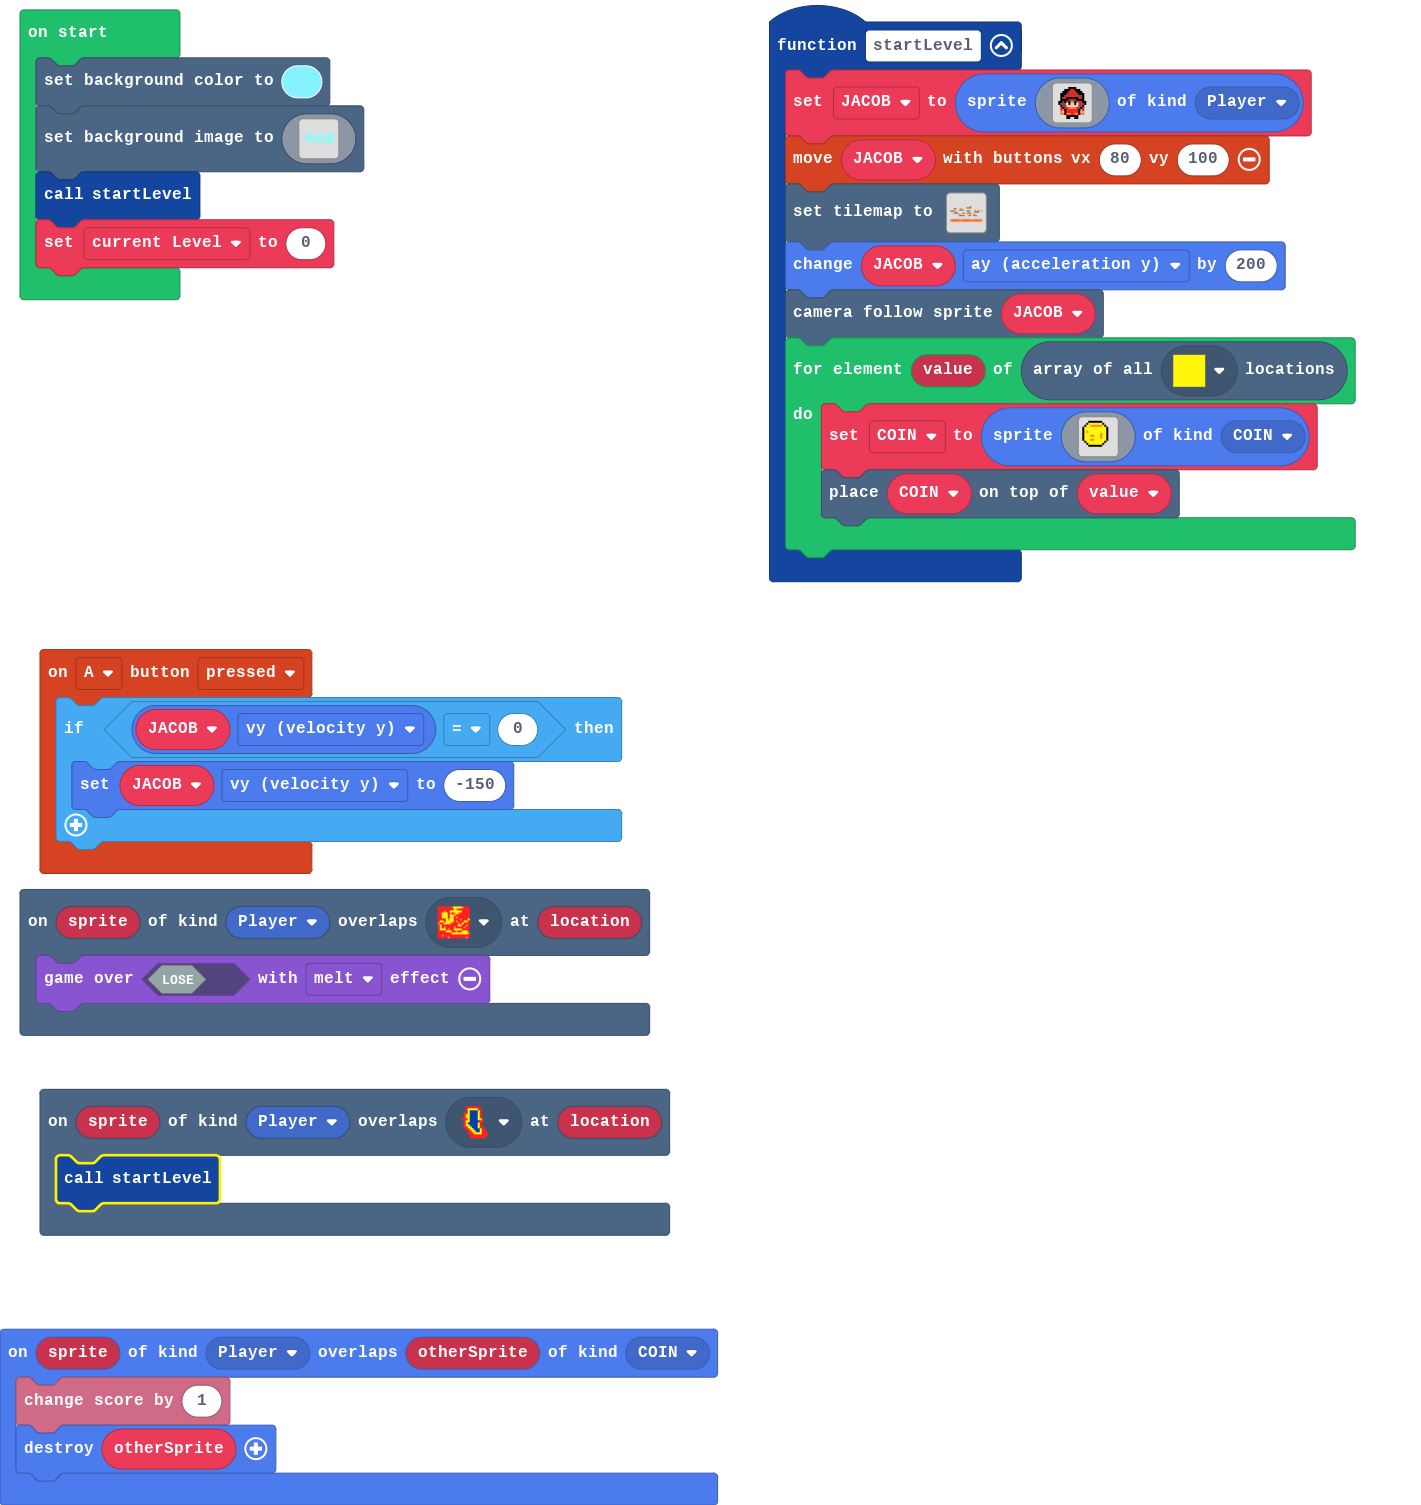
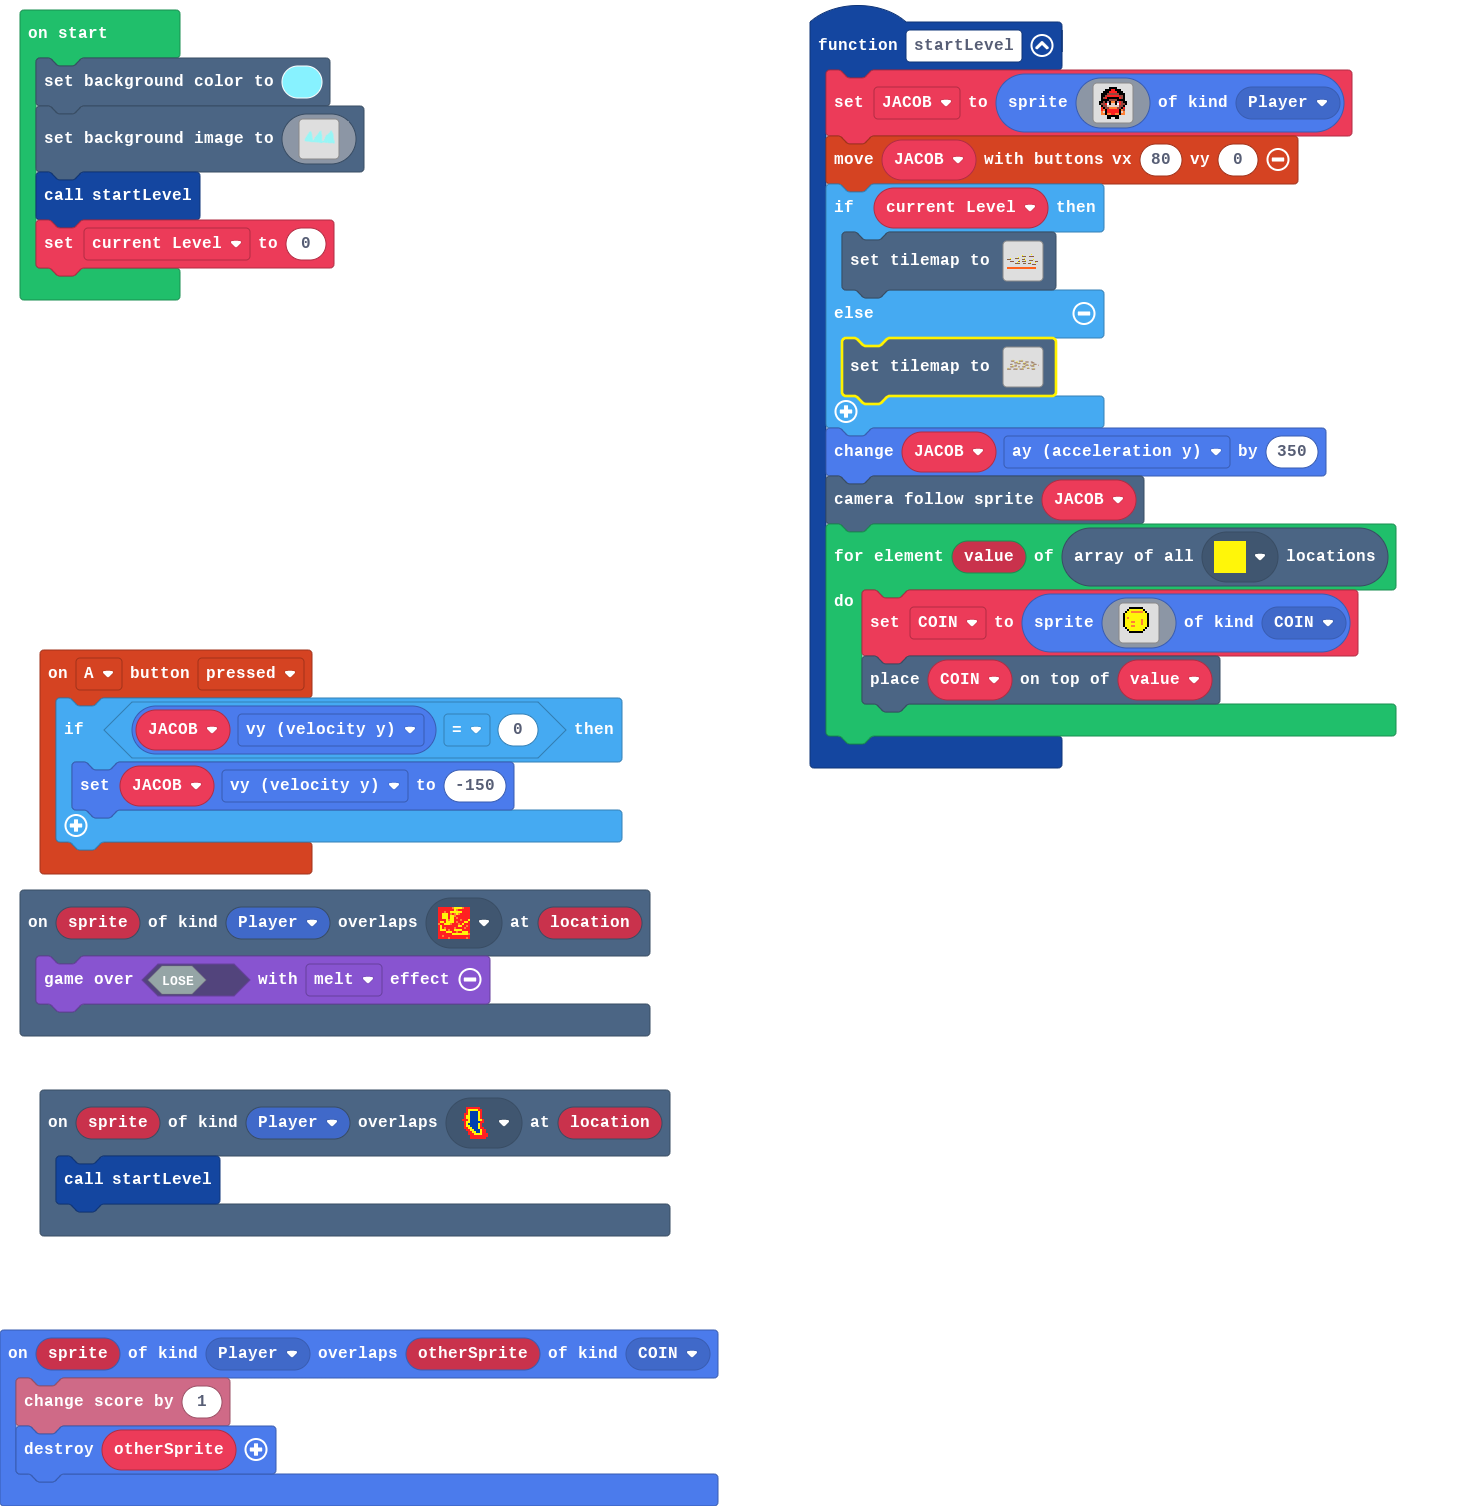
Update main.blocks, main.ts, tilemap.g.jres, tilemap.g.ts

diff --git a/tilemap.g.ts b/tilemap.g.ts
@@ -79,24 +79,43 @@ namespace myTiles {
 . . . . . . . . . . . . . . . . 
 `, [myTiles.transparency16], TileScale.Sixteen);
             case "level4":
[1 lines of base64/hex data omitted]
-.............................
-.............................
-.............................
-...............2222..........
-.............................
-........2222.................
-2222...........222...........
-......................2222...
-...22222...22..2222..........
-.............................
-........22222...222..222.....
-.............................
-.............................
-.............................
-.............................
-.............................
-`, [myTiles.transparency16,myTiles.tile4,myTiles.tile1,myTiles.tile5,myTiles.tile6,myTiles.tile7,myTiles.tile8], TileScale.Sixteen);
+            case "level4":return tiles.createTilemap(hex`200010000000000000000000000000000000000000000000000000000000000000000000000000000000000000000000000000000000000000000000040000000000000000000000000000000000000000000004000000000000000000000000000000000000000000000000000000000000000101010100000002020202020000000000000000000000000000000004000000000000000000000000000000000000000000000004000000000101010100000000000400000000000000000000000000000101010100000000000000000000000101010000000000000000040000000000000000000000000000000000040000000000040000000101010100000000000000000002020202000000000202000001010101000000000000000000020202000000000000000000000004000000000000000000000000040000000004000000000000000000000001010101010000000101010000010101000000000000000000000000000000000000000000000000000000000000000000020202020000000000000000000000000000000000000000000000000000000000000000000000000000000000000000000000000000000000000000000000000000000000000003030303030303030303030303030303030303030303030303030303030000000303030303030303030303030303030303030303030303030303030303000000`, img`
+................................
+................................
+................................
+...............2222...22222.....
+................................
+........2222....................
+2222...........222..............
+......................2222......
+...2222....22..2222.........222.
+................................
+........22222...222..222........
+.........................2222...
+................................
+................................
+................................
+................................
+`, [myTiles.transparency16,myTiles.tile4,myTiles.tile1,myTiles.tile5,myTiles.tile7], TileScale.Sixteen);
+            case "level5":
+            case "level5":return tiles.createTilemap(hex`2800100000000000000000030000000000000000000003000000000000000000000000000000000000000000000000000001010101000000000000010101010100000000000000000000000000000000000000000000000000000000000000000300000000000000000000010101010000000101000000000000000000000000000000000001010101000003000000000003000000000000000000010101000000000000000000000000000000000000000101010100000001010101000000000000000000000000000000000000000001010100000000000000000000000000000100000003000000000000000101010100000000000000000000000000000100000000000000000000000101010100000100000300000000000002000000000000000300010101000000000000000000030000000000000000010101010000000000000000000001010101000000000000010100000001010101000000000000000000000000000000000000000000000000000000000000000000000000000000000000000300000000000000000000000000000300000000000000000000030000000000000300000000000101010000000000030000000000000101010101000000010101010100000001010101010000000000000000000001010101000000000000000000000000000000000000000000000000000000000000000000000000000000000000000000000000000000000000000000000000000000000000000000000000000000000000000000000000000000000000000000000000000000000000000000000000000000000000000000000000000000000000000000000000000000000000000000000000000000000000000000000000000000000000000000`, img`
+........................................
+.....2222......22222....................
+.......................2222...22........
+.........2222..................222......
+.............2222...2222................
+....222..........................2222...
+.......................2222..2..........
+.........222..................2222......
+....2222......22...2222.................
+........................................
+.........................222............
+22222...22222...22222..........2222.....
+........................................
+........................................
+........................................
+........................................
+`, [myTiles.transparency16,myTiles.tile4,myTiles.tile6,myTiles.tile7], TileScale.Sixteen);
         }
         return null;
     })

diff --git a/main.ts b/main.ts
@@ -18,9 +18,13 @@ sprites.onOverlap(SpriteKind.Player, SpriteKind.COIN, function (sprite, otherSpr
 })
 function startLevel () {
     JACOB = sprites.create(assets.image`JACOB`, SpriteKind.Player)
-    controller.moveSprite(JACOB, 80, 100)
-    tiles.setTilemap(tilemap`level4`)
-    JACOB.ay += 200
+    controller.moveSprite(JACOB, 80, 0)
+    if (current_Level) {
+        tiles.setTilemap(tilemap`level4`)
+    } else {
+        tiles.setTilemap(tilemap`level5`)
+    }
+    JACOB.ay += 350
     scene.cameraFollowSprite(JACOB)
     for (let value of tiles.getTilesByType(assets.tile`myTile4`)) {
         COIN = sprites.create(img`
@@ -46,6 +50,7 @@ function startLevel () {
 }
 let COIN: Sprite = null
 let JACOB: Sprite = null
+let current_Level = 0
 scene.setBackgroundColor(9)
 scene.setBackgroundImage(img`
     ................................................................................................................................................................
@@ -170,4 +175,4 @@ scene.setBackgroundImage(img`
     ................................................................................................................................................................
     `)
 startLevel()
-let current_Level = 0
+current_Level = 0
